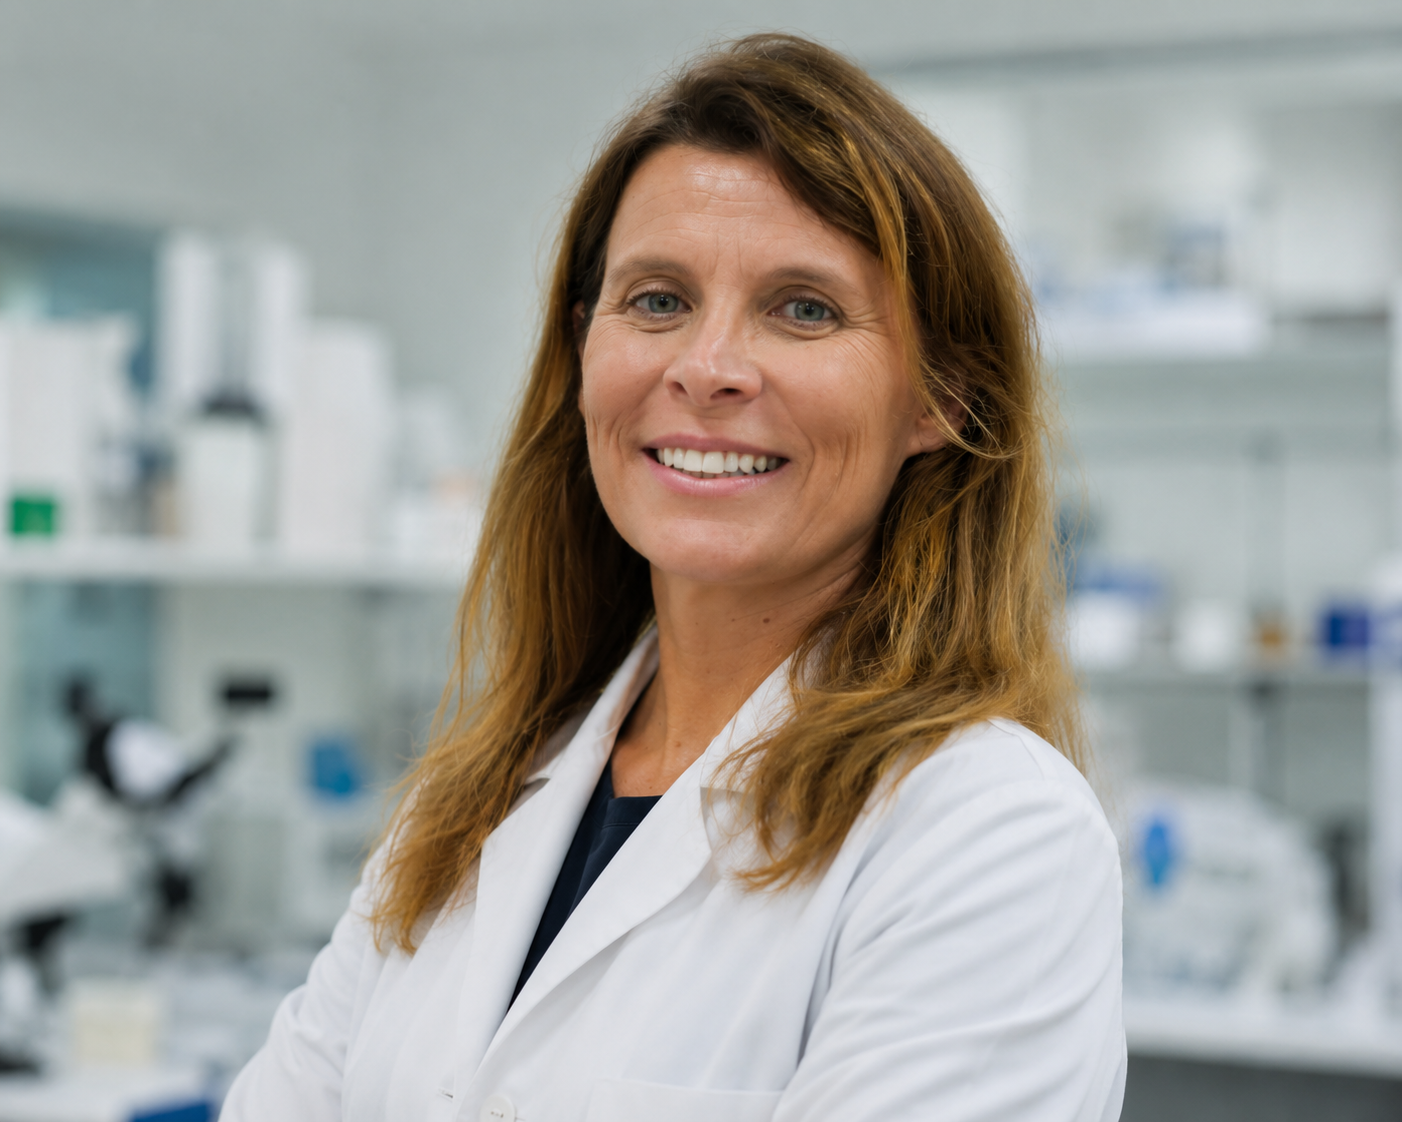
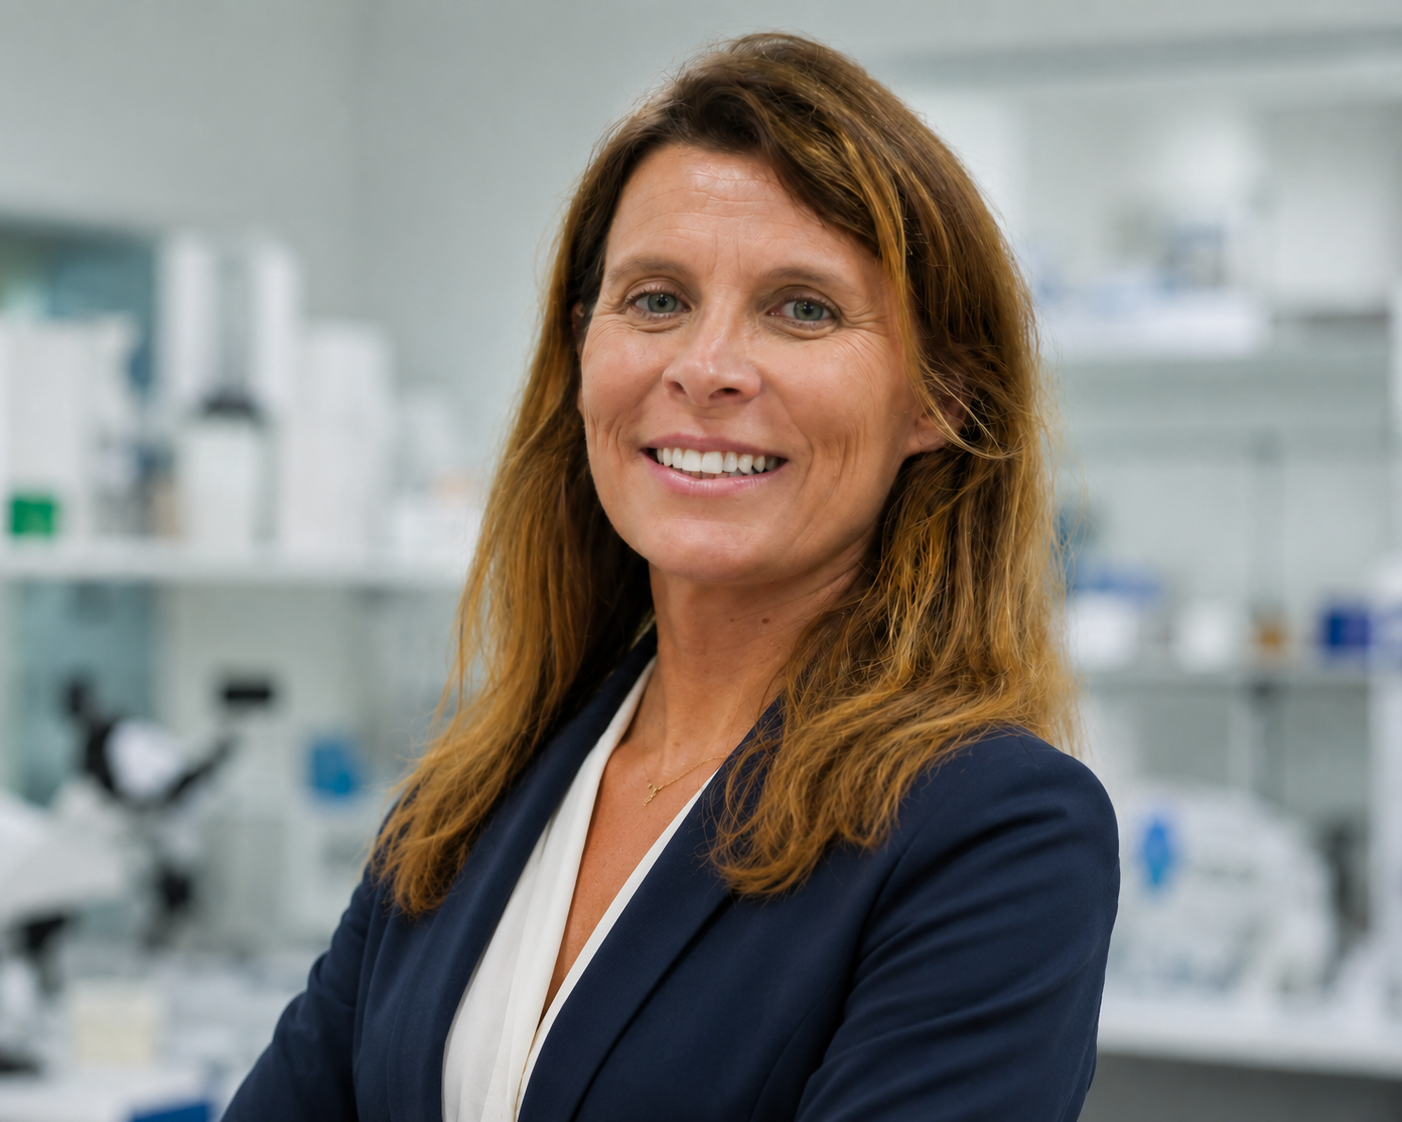
blogs + trocando fotos

diff --git a/src/components/Committee/index.tsx b/src/components/Committee/index.tsx
@@ -65,29 +65,68 @@ export default function Committee({ members }: Props) {
 			<StaggerUp className='grid sm:grid-cols-2 xl:grid-cols-3 gap-4 lg:gap-6'>
 				{members.map((m, i) => (
 					<div key={i}>
-						<button
-							type='button'
-							onClick={() => setSelected(i)}
-							className='group block w-full text-left cursor-pointer'
-						>
+						<div className='group block w-full text-left'>
 							<div className='relative w-full aspect-square overflow-hidden rounded-sm lg:rounded-md bg-green-dark/10'>
-								<Image
-									src={m.photo}
-									alt={m.name}
-									fill
-									style={{ objectPosition: 'center 18%' }}
-									className='cover grayscale transition-all duration-500 group-hover:grayscale-0 group-hover:scale-105'
-									loading='lazy'
-									sizes='(max-width: 768px) 50vw, 33vw'
-								/>
-								<div className='absolute inset-0 bg-green-dark/10 transition-opacity duration-500 group-hover:opacity-0' />
+
+								{m.linked && (
+									<div className='absolute z-2 bottom-4 left-4 lg:bottom-6 lg:left-6'>
+										<Button
+											style='light'
+											href={m.linked}
+											text='LinkedIn'
+											icon='linkedin'
+											target='_blank'
+											rel='noopener noreferrer'
+											aria-label={`Perfil de ${m.name} no LinkedIn`}
+										/>
+									</div>
+								)}
+
+								<button
+									type='button'
+									onClick={() => setSelected(i)}
+									className='cursor-pointer'
+								>
+
+									<Image
+										src={m.photo}
+										alt={m.name}
+										fill
+										style={{ objectPosition: 'center 18%' }}
+										className='cover grayscale transition-all duration-500 group-hover:grayscale-0 group-hover:scale-105'
+										loading='lazy'
+										sizes='(max-width: 768px) 50vw, 33vw'
+									/>
+
+									<div className='absolute inset-0 bg-green-dark/10 transition-opacity duration-500 group-hover:opacity-0' />
+
+								</button>
+
 							</div>
 
-							<h4 className='text-20 font-heading font-semibold mt-4'>
-								{m.name}
-							</h4>
-							{m.area && <p className='text-16 opacity-70 mt-1'>{m.area}</p>}
-						</button>
+							<button
+								type='button'
+								onClick={() => setSelected(i)}
+								className='cursor-pointer block w-fit'
+							>
+								<h4 className='text-20 font-heading font-semibold mt-4'>
+									{m.name}
+								</h4>
+							</button>
+
+							{m.area && (
+								<button
+									type='button'
+									onClick={() => setSelected(i)}
+									className='cursor-pointer block w-fit'
+								>
+									<p className='text-16 opacity-70 mt-1'>
+										{m.area}
+									</p>
+								</button>
+							)}
+
+						</div>
 					</div>
 				))}
 			</StaggerUp>

diff --git a/src/app/sobre/equipe/page.tsx b/src/app/sobre/equipe/page.tsx
@@ -43,7 +43,7 @@ export const metadata: Metadata = {
 
 const bio = [
 	'Com mais de 25 anos de experiência na indústria farmacêutica e em ambientes altamente regulados, <b>Patricia P. Oliveira</b> construiu sua trajetória na interseção entre desenvolvimento farmacêutico, estratégia regulatória, transferência de tecnologia e operações industriais.',
-	'Sua experiência reúne atuação junto à ANVISA, ao MAPA e a autoridades internacionais, além da liderança de projetos, operações industriais e iniciativas de desenvolvimento tecnológico em organizações nacionais e multinacionais.',
+	'Sua experiência reúne atuação junto à ANVISA e a autoridades internacionais, além da liderança de projetos, operações industriais e iniciativas de desenvolvimento tecnológico em organizações nacionais e multinacionais.',
 	'Como fundadora e CEO da <b>Aether Global Pharma</b> e presidente do <b>ICT AetherBio+</b>, lidera uma plataforma integrada de <b>Pharmaceutical Asset Venture Building</b>, conectando ciência de alto potencial, propriedade intelectual, capital e indústria para construir, desenvolver e valorizar ativos farmacêuticos com potencial global.'
 ]
 
@@ -51,7 +51,7 @@ const realizacoes = [
 	'Mais de 300 produtos aprovados junto à ANVISA',
 	'Certificação da linha de produção da fração PMT da vacina Hib no TECPAR',
 	'Certificações internacionais para exportação a mercados altamente regulados',
-	'Implantação da fábrica de ácido hialurônico reticulado da América Latina',
+	'Implantação de uma fábrica de ácido hialurônico em Pinhais',
 	'Liderança de operações e equipes industriais com mais de 200 profissionais em ambiente GMP'
 ]
 
